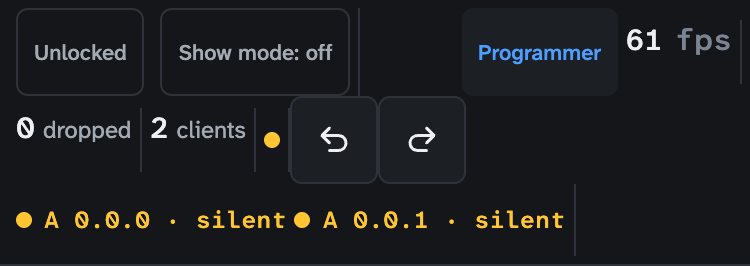
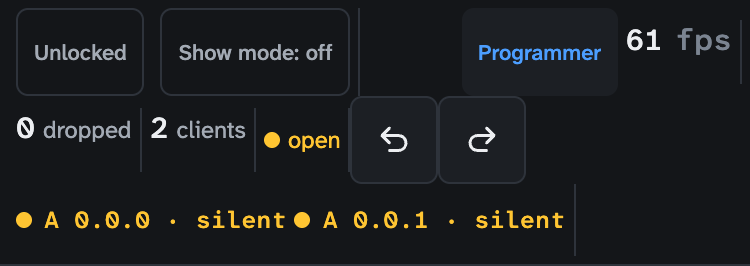
B164: retake the phone status bar picture with the open label

diff --git a/docs/user/ui.md b/docs/user/ui.md
@@ -114,10 +114,11 @@ programmer password.
 Below 600 px wide the bar folds to three rows and drops what does not fit: the
 Fanous name, the GPU and CPU times, the auto version item and the **?**
 button. The role button moves next to the frame rate, Undo and Redo join the
-numbers row, and the outputs item shows only while it is yellow, red or off.
+numbers row, the outputs item shows only while it is yellow, red or off, and
+**web UI open** shortens to **open**.
 On an iPad in either orientation everything is there.
 
-<img src="images/status-bar-phone.png" width="390" alt="The status bar at phone width: the lock, show mode and role with the frame rate on the first row, dropped frames, clients, Undo and Redo on the second, the universe pills on the third">
+<img src="images/status-bar-phone.png" width="390" alt="The status bar at phone width: the lock, show mode and role with the frame rate on the first row, dropped frames, clients, the yellow open warning (web UI open), Undo and Redo on the second, the universe pills on the third">
 
 ## Messages
 
